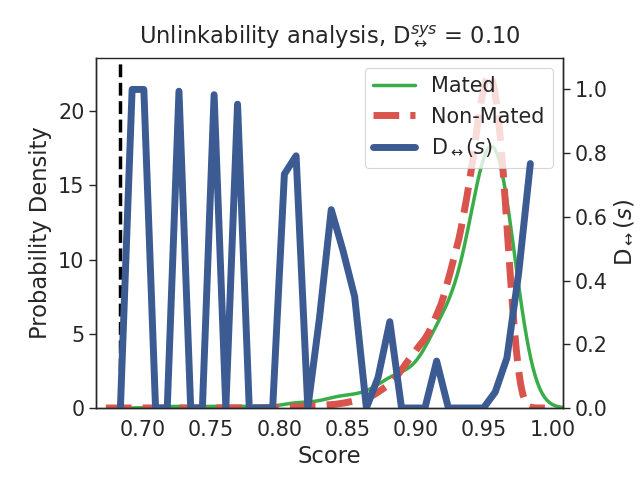
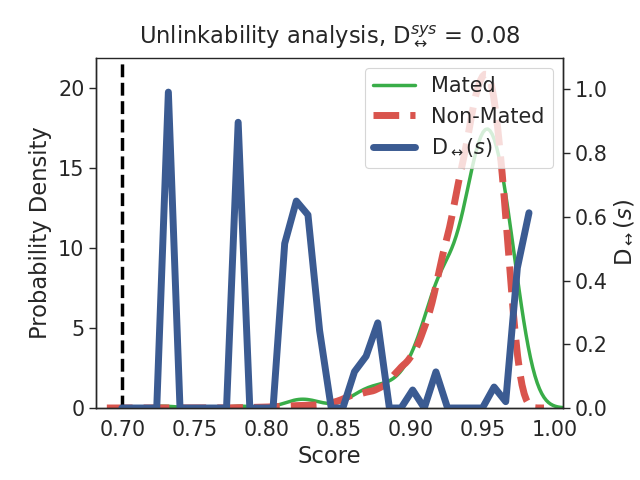
a

diff --git a/002_test.py b/002_test.py
@@ -98,7 +98,9 @@ def unlinkability_calculation(args, model, test_loader):
         for imgs, labels in tqdm(test_loader, desc="Unlinkability Calculation"):
             imgs = imgs.to(args.device)
 
-            _, x_residue_shuffle, _, _ = model(imgs)
+            # 不要使用 x_feature，手動提取 shuffled residue
+            _, _, _, _, _, x_residue_up = model.obtain_residue(imgs)
+            x_residue_shuffle = model.shuffle(x_residue_up)
 
             # 將多維矩陣攤平成一維向量 (B, C*H*W) 作為模板
             template = x_residue_shuffle.view(x_residue_shuffle.size(0), -1)
